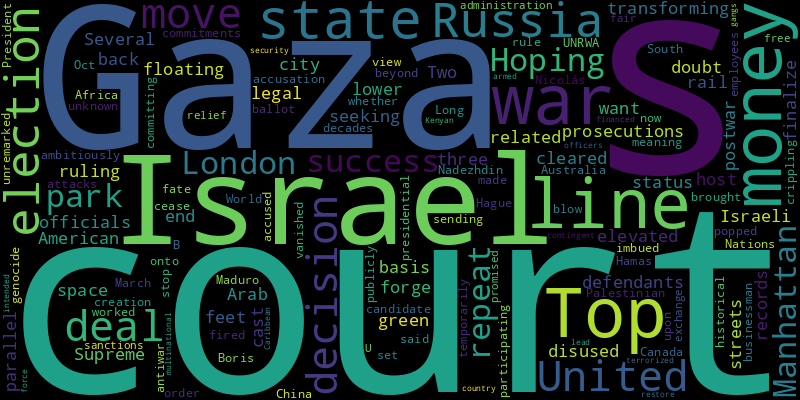
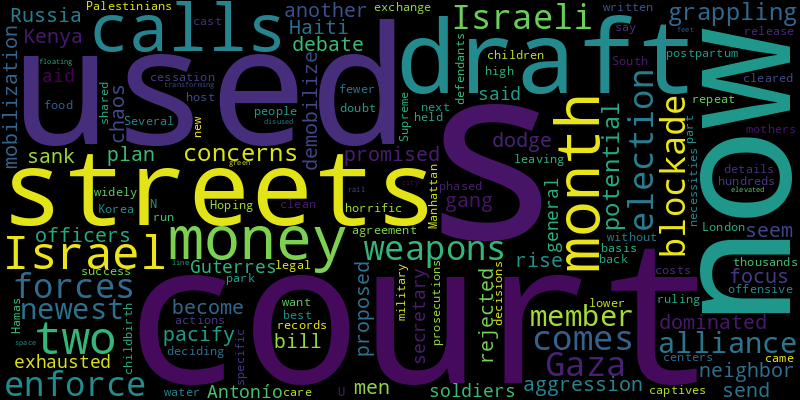
chore(bot): 😱 auto commit

diff --git a/README.md b/README.md
@@ -2,32 +2,33 @@
 Auto RSS New York Times and Generate Word Cloud
 
 ## New York Times Global News
-* Hoping to repeat the success of Manhattan’s park, London is transforming a disused rail line, elevated 25 feet above the city’s streets, into its own floating green space.
+* The very weapons that Israeli forces have used to enforce a blockade of Gaza are now being used against them.
+* The election comes as the alliance’s newest member is grappling with concerns about potential aggression from its neighbor, Russia.
+* As Haiti sank into gang-dominated chaos, Kenya promised to send officers to pacify the streets. Now a court has rejected that plan, and there does not seem to be another.
+* A proposed bill on mobilization has become the focus of a debate as more men dodge the draft and calls rise to demobilize exhausted soldiers.
+* The secretary general, Antonío Guterres, said money to aid Palestinians would run out next month, leaving hundreds of thousands without clean water, food and other necessities.
+* A written draft agreement calls for the phased release of captives held by Hamas in exchange for a cessation in Israel’s military offensive for about two months.
+* The actions came as specific, “horrific” details were more widely shared by the U.N. and Israel.
+* Some new mothers say postpartum care centers are the best part of childbirth in South Korea, where fewer people are deciding to have children because of high costs.
 * Two Supreme Court decisions and a lower court’s ruling have cast doubt on the legal basis for a host of prosecutions. Several defendants want their records cleared and their money back.
-* Top American, Israeli and Arab officials are seeking to forge three parallel but related deals that could end the war in Gaza, finalize its postwar status, and, most ambitiously, set commitments for the creation of a Palestinian state.
-* Long lines have popped up in Russia and beyond to get Boris B. Nadezhdin, an antiwar candidate, onto the ballot for Russia’s presidential election in March.
-* Canada and Australia said they would temporarily stop sending money to UNRWA after it fired employees accused by Israel of participating in the Oct. 7 attacks.
-* The top United Nations court in The Hague did not rule on whether Israel was committing genocide in Gaza, the accusation that South Africa brought before the court.
-* The decision by the World Court did not order Israel to cease its war against Hamas in Gaza. But the court made a move imbued with historical meaning.
-* A businessman who had worked in China for decades vanished from view in 2018, but his fate had been unknown, and publicly unremarked upon, until now.
-* The move is a crippling blow to a deal in which President Nicolás Maduro’s administration promised a free and fair election in exchange for relief from U.S. sanctions.
-* A contingent of 1,000 Kenyan officers was intended to lead a multinational force financed by the United States to restore security in a Caribbean country terrorized by armed gangs.
+* Hoping to repeat the success of Manhattan’s park, London is transforming a disused rail line, elevated 25 feet above the city’s streets, into its own floating green space.
 
 ![Global](./global.png)
 ## New York Times United States News
+* Gina Swoboda, a hard-right Trump supporter, was picked to replace Jeff DeWit, who resigned after the release of a recording that appeared to suggest a bribe to Kari Lake.
+* A longtime counternarcotics agent said he used CBD for chronic pain, considering it safer than opioids. The choice set off a legal fight.
 * Alabama officials said the nation’s first nitrogen gas execution was a model for other states. Critics called it appalling and far from what the state promised.
 * Fending off doubts and criticisms, Alabama’s attorney general hailed a new execution method as “humane and effective.”
-* The state executed Kenneth Smith on Thursday using the untested method of nitrogen hypoxia after the Supreme Court declined to intervene.
-* Kenneth Eugene Smith was put to death by nitrogen gas on Thursday night, the first time the method was used in capital punishment in the U.S.
-* A longtime counternarcotics agent said he used CBD for chronic pain, considering it safer than opioids. The choice set off a legal fight.
-* As Trump campaign surrogates defended the former president in light of an $83.3 million defamation verdict, Nikki Haley said his legal troubles continued to be a distraction.
-* The department received documents on Friday signed by Turkey’s leader approving Sweden’s long-delayed entry into NATO. The alliance now awaits word from the lone holdout, Hungary.
-* A military jury sentenced two Malaysian men to 23 years for helping perpetrators of the bombing that killed 202 people, but a side deal reduced the punishment.
-* The presidential candidates may have turned their attention to South Carolina, but the next contests on the calendar are in the Silver State. The process there is complex and confusing.
-* Keep an eye on Haley and DeSantis.
+* Recent Ivy League dramas have made women leaders in academia wonder how far they’ve really come.
+* The 2024 general election campaign is set to be one of the longest in modern history. There will be no spring break.
+* The Democratic majority has made headway in winning confirmation of Biden nominees in G.O.P.-led states, but has fallen behind the pace of the Trump era in the overall push to remake the federal courts.
+* Black congregants’ dismay at President Biden’s posture on the war could imperil his re-election bid.
+* President Biden sought to energize his base in the state that propelled him to the White House, but some local leaders said he needed to do more to highlight his achievements.
+* Assessing the presidential race, the American Opportunity Alliance has invited representatives from both the Trump and Haley campaigns to make their pitches at a meeting next week.
 
 ![US](./usnews.png)
 ## New York Times Asia News
+* Some new mothers say postpartum care centers are the best part of childbirth in South Korea, where fewer people are deciding to have children because of high costs.
 * Hefei has led the country in making electric vehicles and other tech products, but it still has not escaped a nationwide housing crisis.
 * A businessman who had worked in China for decades vanished from view in 2018, but his fate had been unknown, and publicly unremarked upon, until now.
 * A military jury sentenced two Malaysian men to 23 years for helping perpetrators of the bombing that killed 202 people, but a side deal reduced the punishment.
@@ -37,6 +38,5 @@ Auto RSS New York Times and Generate Word Cloud
 * The SLIM spacecraft survived its trip to the surface, but ended up pointing in a direction that now limits the duration of its mission.
 * A shift by Kim Jong-un, North Korea’s leader, toward open hostility against South Korea is alarming but does not indicate he is about to start a full-scale war, officials say.
 * Bae Hyunjin, of the country’s governing party, was assaulted in Seoul and taken to a hospital. The attack came three weeks after another politician was stabbed.
-* Plus, can the world’s biggest cruise ship be climate friendly?
 
 ![Asian](./asian.png)
